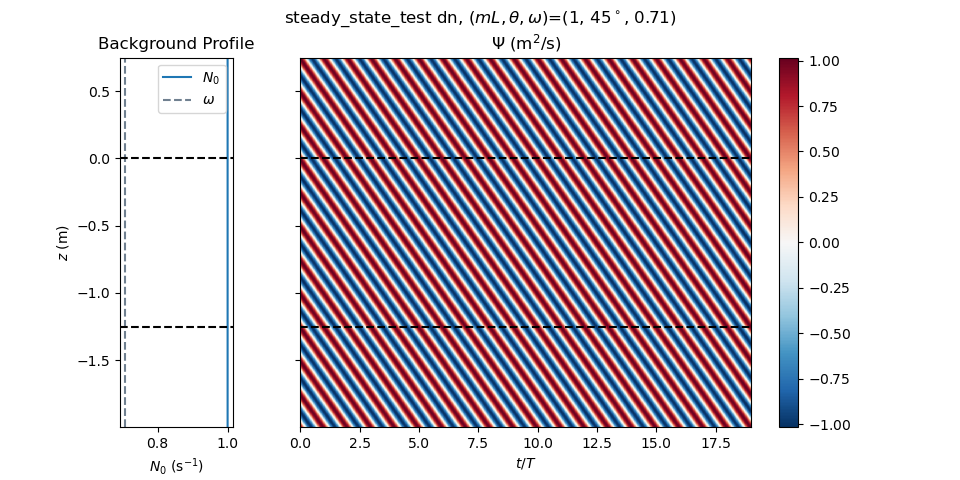
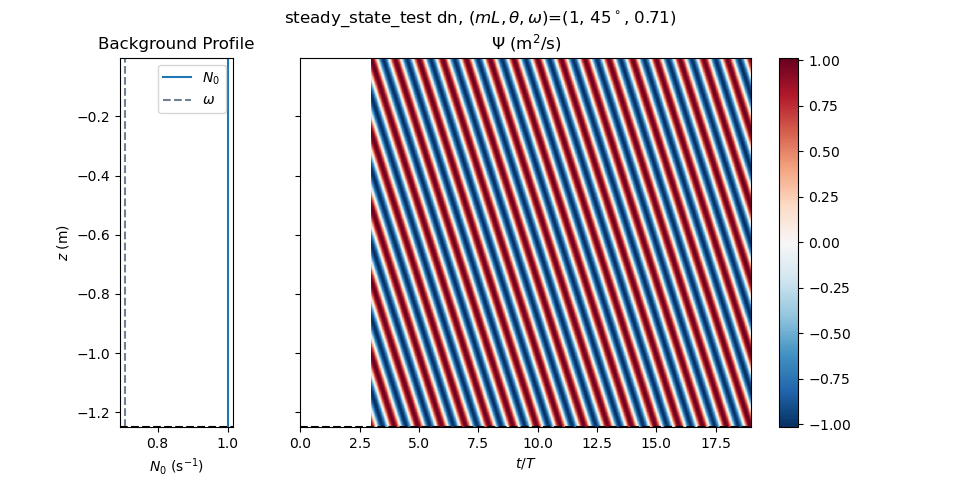
Fixed bug where plotting trimmed domain would flip z axis

diff --git a/steady_state_test.py b/steady_state_test.py
@@ -145,7 +145,7 @@ t_tr, psi_tr = hf.trim_data_t(t, psi_tr, T_cutoff, T)
 
 # Plot trimmed wavefield
 if sbp.plot_spacetime:
-    hf.plot_z_vs_t(z_tr, t_tr, T, psi_tr, BP_tr, mL, theta, omega, z_I=z_I, z_T=z_T, z0_dis=z0_dis, zf_dis=zf_dis, plot_full_domain=True, T_cutoff=T_cutoff, title_str=run_name, filename='ss_1D_wave_tr.png')
+    hf.plot_z_vs_t(z_tr, t_tr, T, psi_tr, BP_tr, mL, theta, omega, z_I=z_I, z_T=z_T, z0_dis=z0_dis, zf_dis=zf_dis, plot_full_domain=False, T_cutoff=T_cutoff, title_str=run_name, filename='ss_1D_wave_tr.png')
 
 ###############################################################################
 # Plot spectral form of data
@@ -155,12 +155,12 @@ freqs, ks, spec_data = hfCD.z_t_to_k_omega(t_tr, z_tr, psi_tr, dt, dz)
 if sbp.plot_spectra:
     hf.plot_spectral(ks, freqs, spec_data.real, spec_data.imag, mL, theta, omega, c_map='viridis', title_str=run_name, filename='ss_1D_spectra.png')
 
-raise SystemExit(0)
+# raise SystemExit(0)
 ###############################################################################
 # Perform complex demodulation
 
 # Trimming the data
-tr_z, tr_t, tr_psi = hf.trim_data(z, t, psi, z0_dis=z0_dis, zf_dis=zf_dis, T_cutoff=T_cutoff, T=T)
+# tr_z, tr_t, tr_psi = hf.trim_data(z, t, psi, z0_dis=z0_dis, zf_dis=zf_dis, T_cutoff=T_cutoff, T=T)
 # print('tr_z.shape=',tr_z.shape)
 # print('tr_t.shape=',tr_t.shape)
 # print('tr_psi.shape=',tr_psi.shape)
@@ -169,14 +169,22 @@ t_then_z = True
 up_field, dn_field = hfCD.Complex_Demodulate(t_then_z, t, z, kz_sim, psi, dt, omega)
 tr_up_field, tr_dn_field = hfCD.Complex_Demodulate(t_then_z, t_tr, z_tr, kz_dis, psi_tr, dt, omega)
 
-raise SystemExit(0)
+###############################################################################
+# Plotting up and downward propagating waves
+
+if sbp.plot_up_dn:
+    hf.plot_z_vs_t(z_tr, t_tr, T, tr_up_field.real, BP_tr, mL, theta, omega, z_I=z_I, z_T=z_T, z0_dis=z0_dis, zf_dis=zf_dis,  plot_full_domain=True, T_cutoff=None, title_str=run_name+' up', filename='ss_1D_up_field.png')
+    hf.plot_z_vs_t(z_tr, t_tr, T, tr_dn_field.real, BP_tr, mL, theta, omega, z0_dis=z0_dis, zf_dis=zf_dis, plot_full_domain=True, T_cutoff=None, title_str=run_name+' dn', filename='ss_1D_dn_field.png')
+
+# hf.plot_z_vs_t(z_tr, t_tr, T, psi_tr, BP_tr, mL, theta, omega, z_I=z_I, z_T=z_T, z0_dis=z0_dis, zf_dis=zf_dis, plot_full_domain=True, T_cutoff=T_cutoff, title_str=run_name, filename='ss_1D_wave_tr.png')
 ###############################################################################
 # Measuring the transmission coefficient
 
-I_, T_, AAcc_I, AAcc_T = hf.measure_T(tr_dn_field, tr_z, z_I, z_T, T_skip=None, T=T, t=tr_t)
+I_, T_, AAcc_I, AAcc_T = hf.measure_T(tr_dn_field, z_tr, z_I, z_T, T_skip=None, T=T, t=t_tr)
 big_T = T_/I_
 print("Transmission coefficient is:", big_T)
 
+raise SystemExit(0)
 ###############################################################################
 # Profiling the code
 profile_it = False
@@ -219,10 +227,6 @@ if sbp.plot_amplitude:
 
 if sbp.plot_amplitude:
     hf.plot_AA_for_z(plot_z, plot_BP_, hf.AAcc(plot_dn), mL, theta, omega, z_I=z_I, z_T=z_T, z0_dis=z0_dis, zf_dis=zf_dis, plot_full_domain=plt_fd, title_str=run_name, filename='ss_1D_AA_for_z.png')
-
-if sbp.plot_up_dn:
-    hf.plot_z_vs_t(plot_z, plot_t, T, plot_up.real, plot_BP_, mL, theta, omega, z0_dis=z0_dis, zf_dis=zf_dis,  plot_full_domain=plt_fd, T_cutoff=None, title_str=run_name+' up', filename='ss_1D_up_field.png')
-    hf.plot_z_vs_t(plot_z, plot_t, T, plot_dn.real, plot_BP_, mL, theta, omega, z0_dis=z0_dis, zf_dis=zf_dis, plot_full_domain=plt_fd, T_cutoff=None, title_str=run_name+' dn', filename='ss_1D_dn_field.png')
 
 plot_CD_checks = False
 if plot_CD_checks:

diff --git a/helper_functions.py b/helper_functions.py
@@ -440,7 +440,7 @@ def set_plot_bounds(ax, plot_full_domain, z_array=None, z0_dis=None, zf_dis=None
             ax.set_xlim([0,t_array[-1]/T])
     else:
         if z0_dis != None and zf_dis != None:
-            ax.set_ylim([z0_dis,zf_dis])
+            ax.set_ylim([zf_dis, z0_dis]) # Careful of this order, zf is less than z0
         if isinstance(t_array, np.ndarray) and T != None and T_cutoff != None:
             ax.set_xlim([T_cutoff,t_array[-1]/T])
 
